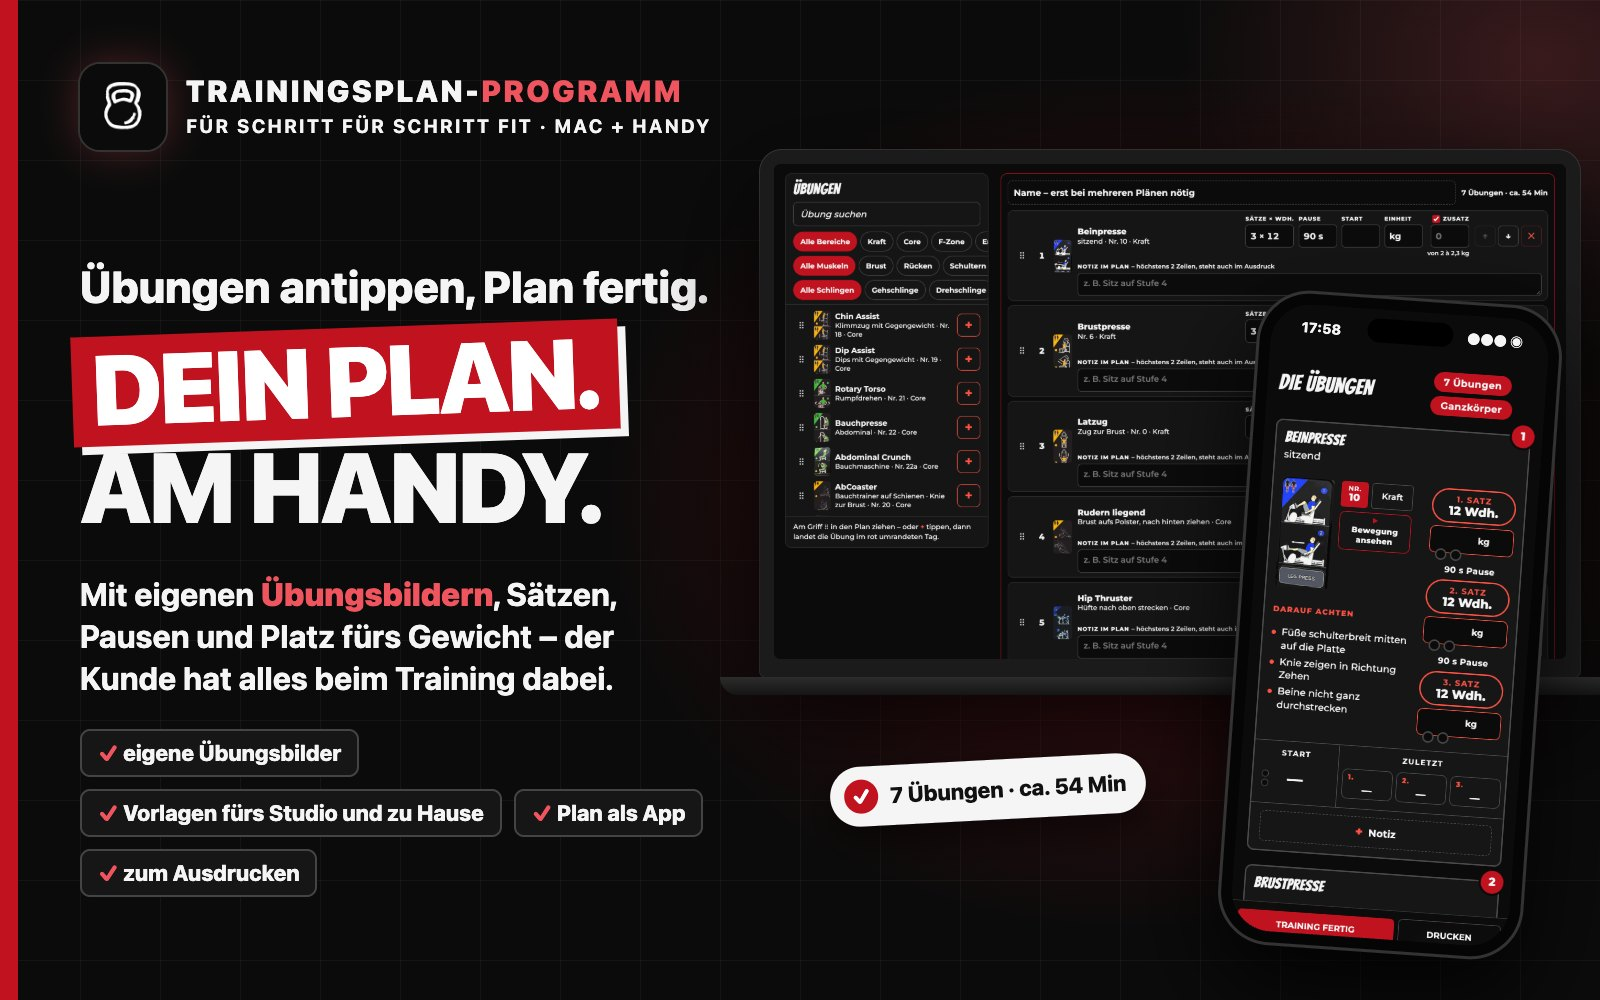
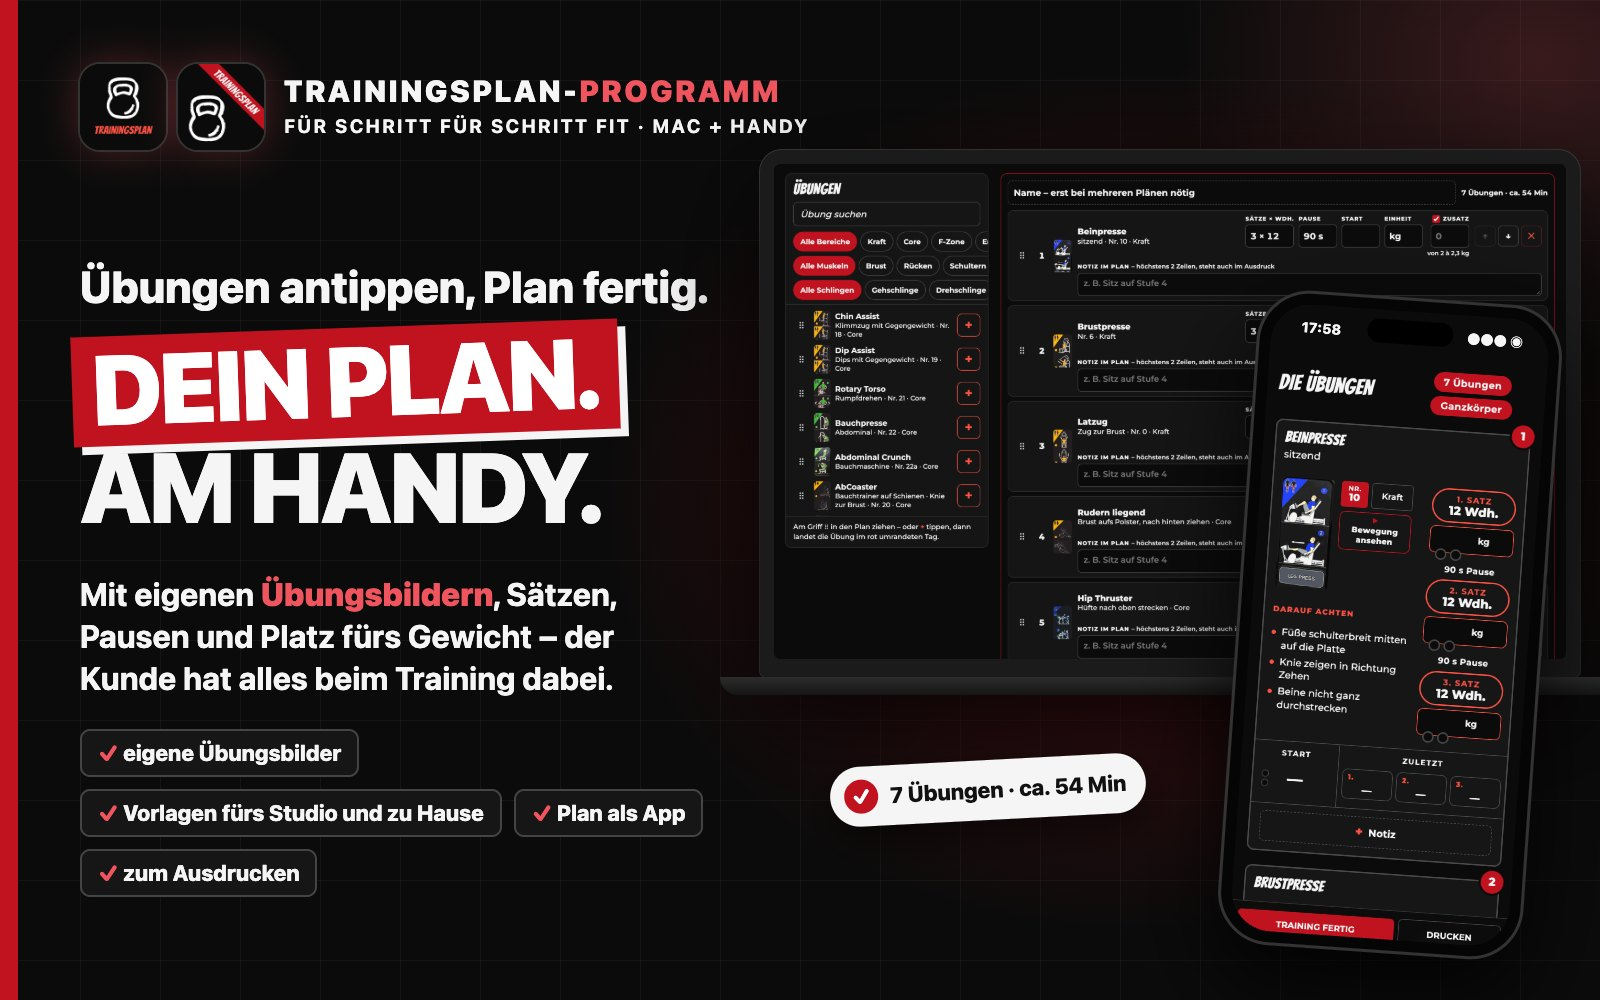
Trainingsplan: Symbol des Mac-Programms in Leiste und Karte, auf Programm-Seite und Vorschaubild beide Symbole (Mac + Handy)
Robert 24.10.2026: „du kannst sie online schalten“.

Changed region(s): [[0.0625, 0.062, 0.5, 0.155]]

diff --git a/programme/trainingsplan/index.html b/programme/trainingsplan/index.html
@@ -41,6 +41,8 @@
   .held .wrap { position:relative; display:grid; grid-template-columns:1fr 1fr; gap:44px; align-items:center; }
   .held .kopf { display:flex; align-items:center; gap:18px; margin-top:30px; }
   .held .kopf img { width:92px; height:92px; border-radius:22px; box-shadow:0 14px 40px rgba(0,0,0,.30); }
+  .held .kopf .symbole { display:flex; gap:10px; flex:none; }   /* Mac-Programm + Pläne am Handy */
+  .held .kopf .symbole img { box-shadow:0 0 0 2px #2A2A2A, 0 14px 40px rgba(0,0,0,.30); }   /* schwarze Kachel auf schwarzem Grund sichtbar machen */
   .held .marke { font:900 28px/1.1 var(--sans); letter-spacing:.04em; color:var(--dunkel); }
   .held .marke b { color:var(--pink); }
   .held .art { margin-top:6px; font:700 14px/1.4 var(--sans); letter-spacing:.12em; text-transform:uppercase; color:var(--dunkel); }
@@ -113,6 +115,7 @@
   }
   @media (max-width:600px) {
     body { font-size:17px; } .held { padding-top:24px; } .held h1 { font-size:40px; } .held .kopf img { width:70px; height:70px; border-radius:17px; }
+    .held .kopf { flex-wrap:wrap; } .held .kopf > div { flex-basis:100%; }   /* zwei Symbole: Schriftzug darunter */
     .held .marke { font-size:22px; } .held .lead { font-size:19px; } h2 { font-size:30px; } .raster { grid-template-columns:1fr; }
     .galerie img { height:240px; } .knopf { width:100%; justify-content:center; } .verein { padding:20px; } .schluss .gross { font-size:30px; }
   }
@@ -178,7 +181,7 @@
     <div>
       <a class="zurueck" href="../../#programm-trainingsplan">← Zurück zur Startseite</a>
       <div class="kopf">
-        <img src="icon.png" alt="Symbol des Trainingsplan-Programms" width="92" height="92">
+        <span class="symbole"><img src="icon.png" alt="Symbol des Trainingsplan-Programms am Mac" title="am Mac: Pläne erstellen" width="92" height="92"><img src="icon-handy.png?v=20261024" alt="Symbol der Trainingspläne am Handy" title="am Handy: Pläne und Trainings-App" width="92" height="92"></span>
         <div><div class="marke">TRAININGS<b>PLAN</b></div><div class="art">Mac-Programm + Trainings-App<br>Im Einsatz bei Schritt für Schritt fit</div></div>
       </div>
       <h1>Dein Plan. <span class="mark">Am Handy.</span></h1>
@@ -188,8 +191,8 @@
         <a class="knopf rand" href="#film">▶ Film ansehen</a>
       </div>
     </div>
-    <button type="button" class="hook" data-gross="../../assets/programme/trainingsplan-bild.jpg" data-text="Trainingsplan-Programm: Übungsliste am Mac und der fertige Plan am Handy" aria-label="Bild groß ansehen" style="padding:0;cursor:zoom-in;background:none">
-      <img src="../../assets/programme/trainingsplan-bild.jpg" alt="Trainingsplan-Programm: Übungsliste mit eigenen Übungsbildern am Mac und der fertige Plan eines erfundenen Beispielkunden am Handy, Schriftzug „Dein Plan. Am Handy.“" width="1600" height="1000">
+    <button type="button" class="hook" data-gross="../../assets/programme/trainingsplan-bild.jpg?v=20261024" data-text="Trainingsplan-Programm: Übungsliste am Mac und der fertige Plan am Handy" aria-label="Bild groß ansehen" style="padding:0;cursor:zoom-in;background:none">
+      <img src="../../assets/programme/trainingsplan-bild.jpg?v=20261024" alt="Trainingsplan-Programm: Übungsliste mit eigenen Übungsbildern am Mac und der fertige Plan eines erfundenen Beispielkunden am Handy, Schriftzug „Dein Plan. Am Handy.“" width="1600" height="1000">
     </button>
   </div>
 </header>

diff --git a/index.html b/index.html
@@ -266,7 +266,7 @@
           <li><a href="#programm-beauty" title="Beauty Routine App"><img src="assets/programme/beauty.png" width="56" height="56" alt="Beauty Routine App" loading="lazy"></a></li>
           <li><a href="#programm-einkauf" title="Einkauf"><img src="assets/programme/einkauf.png" width="56" height="56" alt="Einkauf" loading="lazy"></a></li>
           <li><a href="#programm-blitztext" title="Blitztext"><img src="assets/programme/blitztext.png" width="56" height="56" alt="Blitztext" loading="lazy"></a></li>
-          <li><a href="#programm-trainingsplan" title="Trainingsplan-Programm"><img src="assets/programme/trainingsplan.png" width="56" height="56" alt="Trainingsplan-Programm" loading="lazy"></a></li>
+          <li><a href="#programm-trainingsplan" title="Trainingsplan-Programm"><img src="assets/programme/trainingsplan.png?v=20261024" width="56" height="56" alt="Trainingsplan-Programm" loading="lazy"></a></li>
           <li><a href="#programm-belegro" title="Belegro"><img src="assets/programme/belegro.png" width="56" height="56" alt="Belegro" loading="lazy"></a></li>
           <li><a href="#programm-mykalender" title="MyKalender"><img src="assets/programme/mykalender.png" width="56" height="56" alt="MyKalender" loading="lazy"></a></li>
           <li><a href="#programm-vertretungsbuch" title="Vertretungsbuch"><img src="assets/programme/vertretungsbuch.png" width="56" height="56" alt="Vertretungsbuch" loading="lazy"></a></li>
@@ -870,7 +870,7 @@
 <!-- Meldung „Adresse kopiert" für Screenreader (für das Auge steht sie am Button) -->
 <p id="kopier-meldung" class="u-nur-vorlesen" role="status" aria-live="polite"></p>
 
-<script src="js/script.js?v=20261024a"></script>
+<script src="js/script.js?v=20261024b"></script>
 
 <!-- =====================================================================
      BESUCHERZAEHLER - Cloudflare Web Analytics

diff --git a/js/script.js b/js/script.js
@@ -179,8 +179,8 @@ const PROGRAMME = [
     punkte: ['Übungen mit eigenen Bildern', 'Plan als App am Handy', 'Im Einsatz bei Schritt für Schritt fit'],
     status: 'einsatzbereit',
     farbe: '#F0555F',
-    icon: 'assets/programme/trainingsplan.png',
-    bild: 'assets/programme/trainingsplan-bild.jpg',
+    icon: 'assets/programme/trainingsplan.png?v=20261024',
+    bild: 'assets/programme/trainingsplan-bild.jpg?v=20261024',
     form: 'quer', hell: false,
     alt: 'Trainingsplan-Programm: Übungsliste mit eigenen Übungsbildern am Mac und der fertige Plan eines erfundenen '
        + 'Beispielkunden am Handy, Schriftzug „Dein Plan. Am Handy.“',
